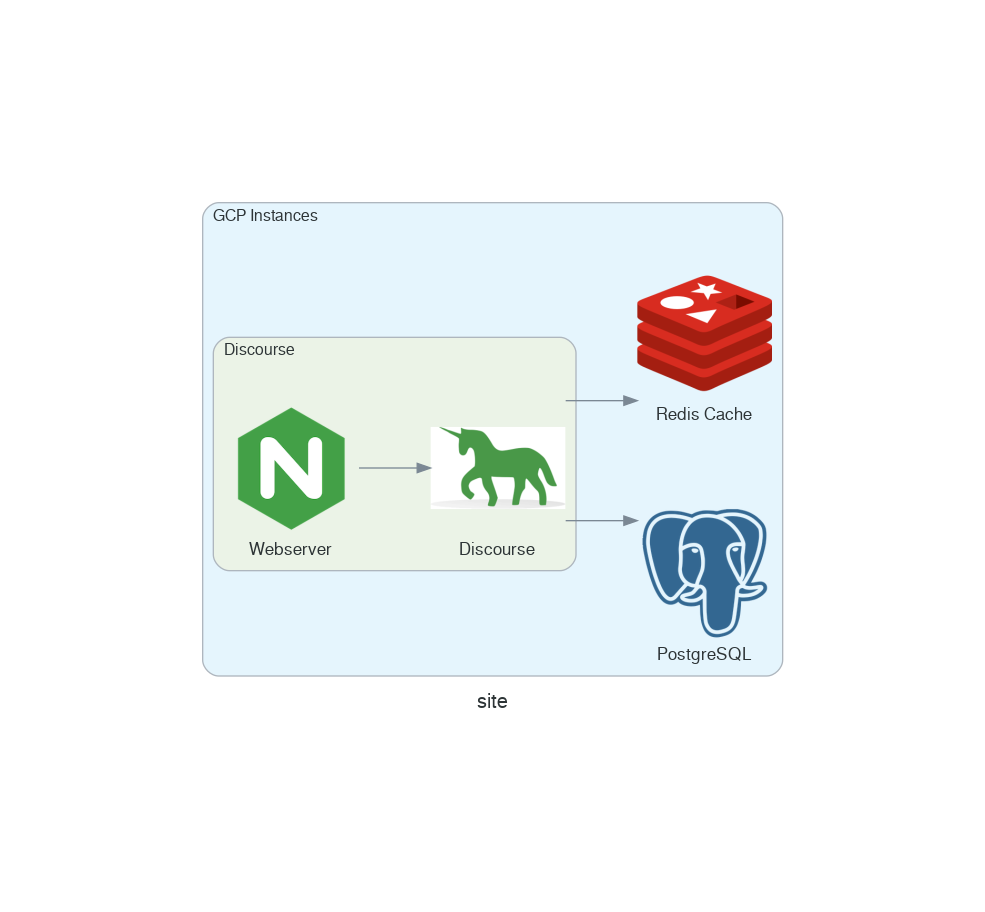
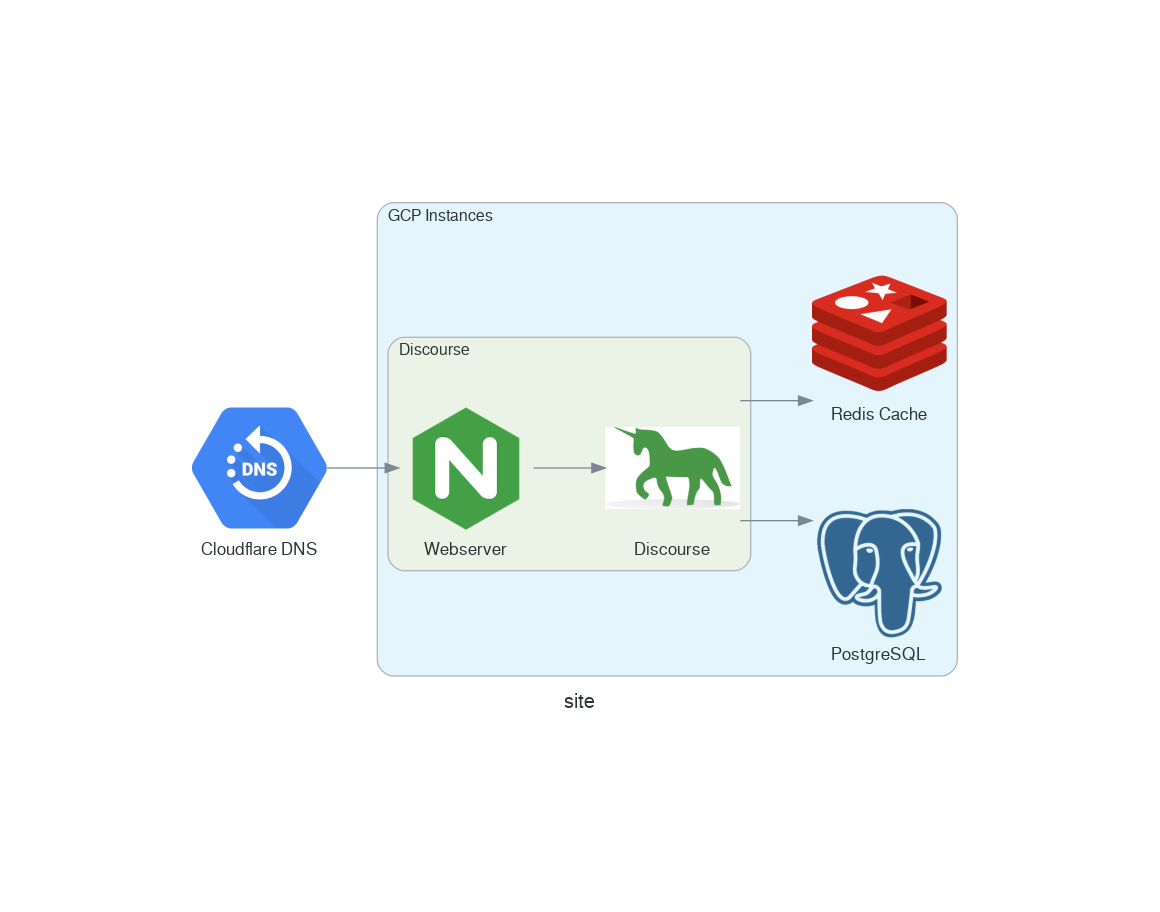
Add DNS to diagram

Changed region(s): [[0.1523, 0.2149, 0.8528, 0.7675], [0.4873, 0.7675, 0.5178, 0.7982]]

diff --git a/site.py b/site.py
@@ -3,15 +3,19 @@ from diagrams.onprem.database import Postgresql
 from diagrams.onprem.inmemory import Redis
 from diagrams.onprem.network import Nginx
 from diagrams.onprem.network import Gunicorn
+from diagrams.onprem.dns import Coredns
+from diagrams.gcp.network import DNS
 
 with Diagram("site", show=False):
+    dns = DNS("Cloudflare DNS")
     with Cluster("GCP Instances"):
         db = Postgresql("PostgreSQL")
         cache = Redis("Redis Cache")
         with Cluster("Discourse"):
             nginx = Nginx("Webserver")
             gunicorn = Gunicorn("Discourse")
-        
+    
+    dns >> nginx
     nginx >> gunicorn
     gunicorn >> cache
     gunicorn >> db
